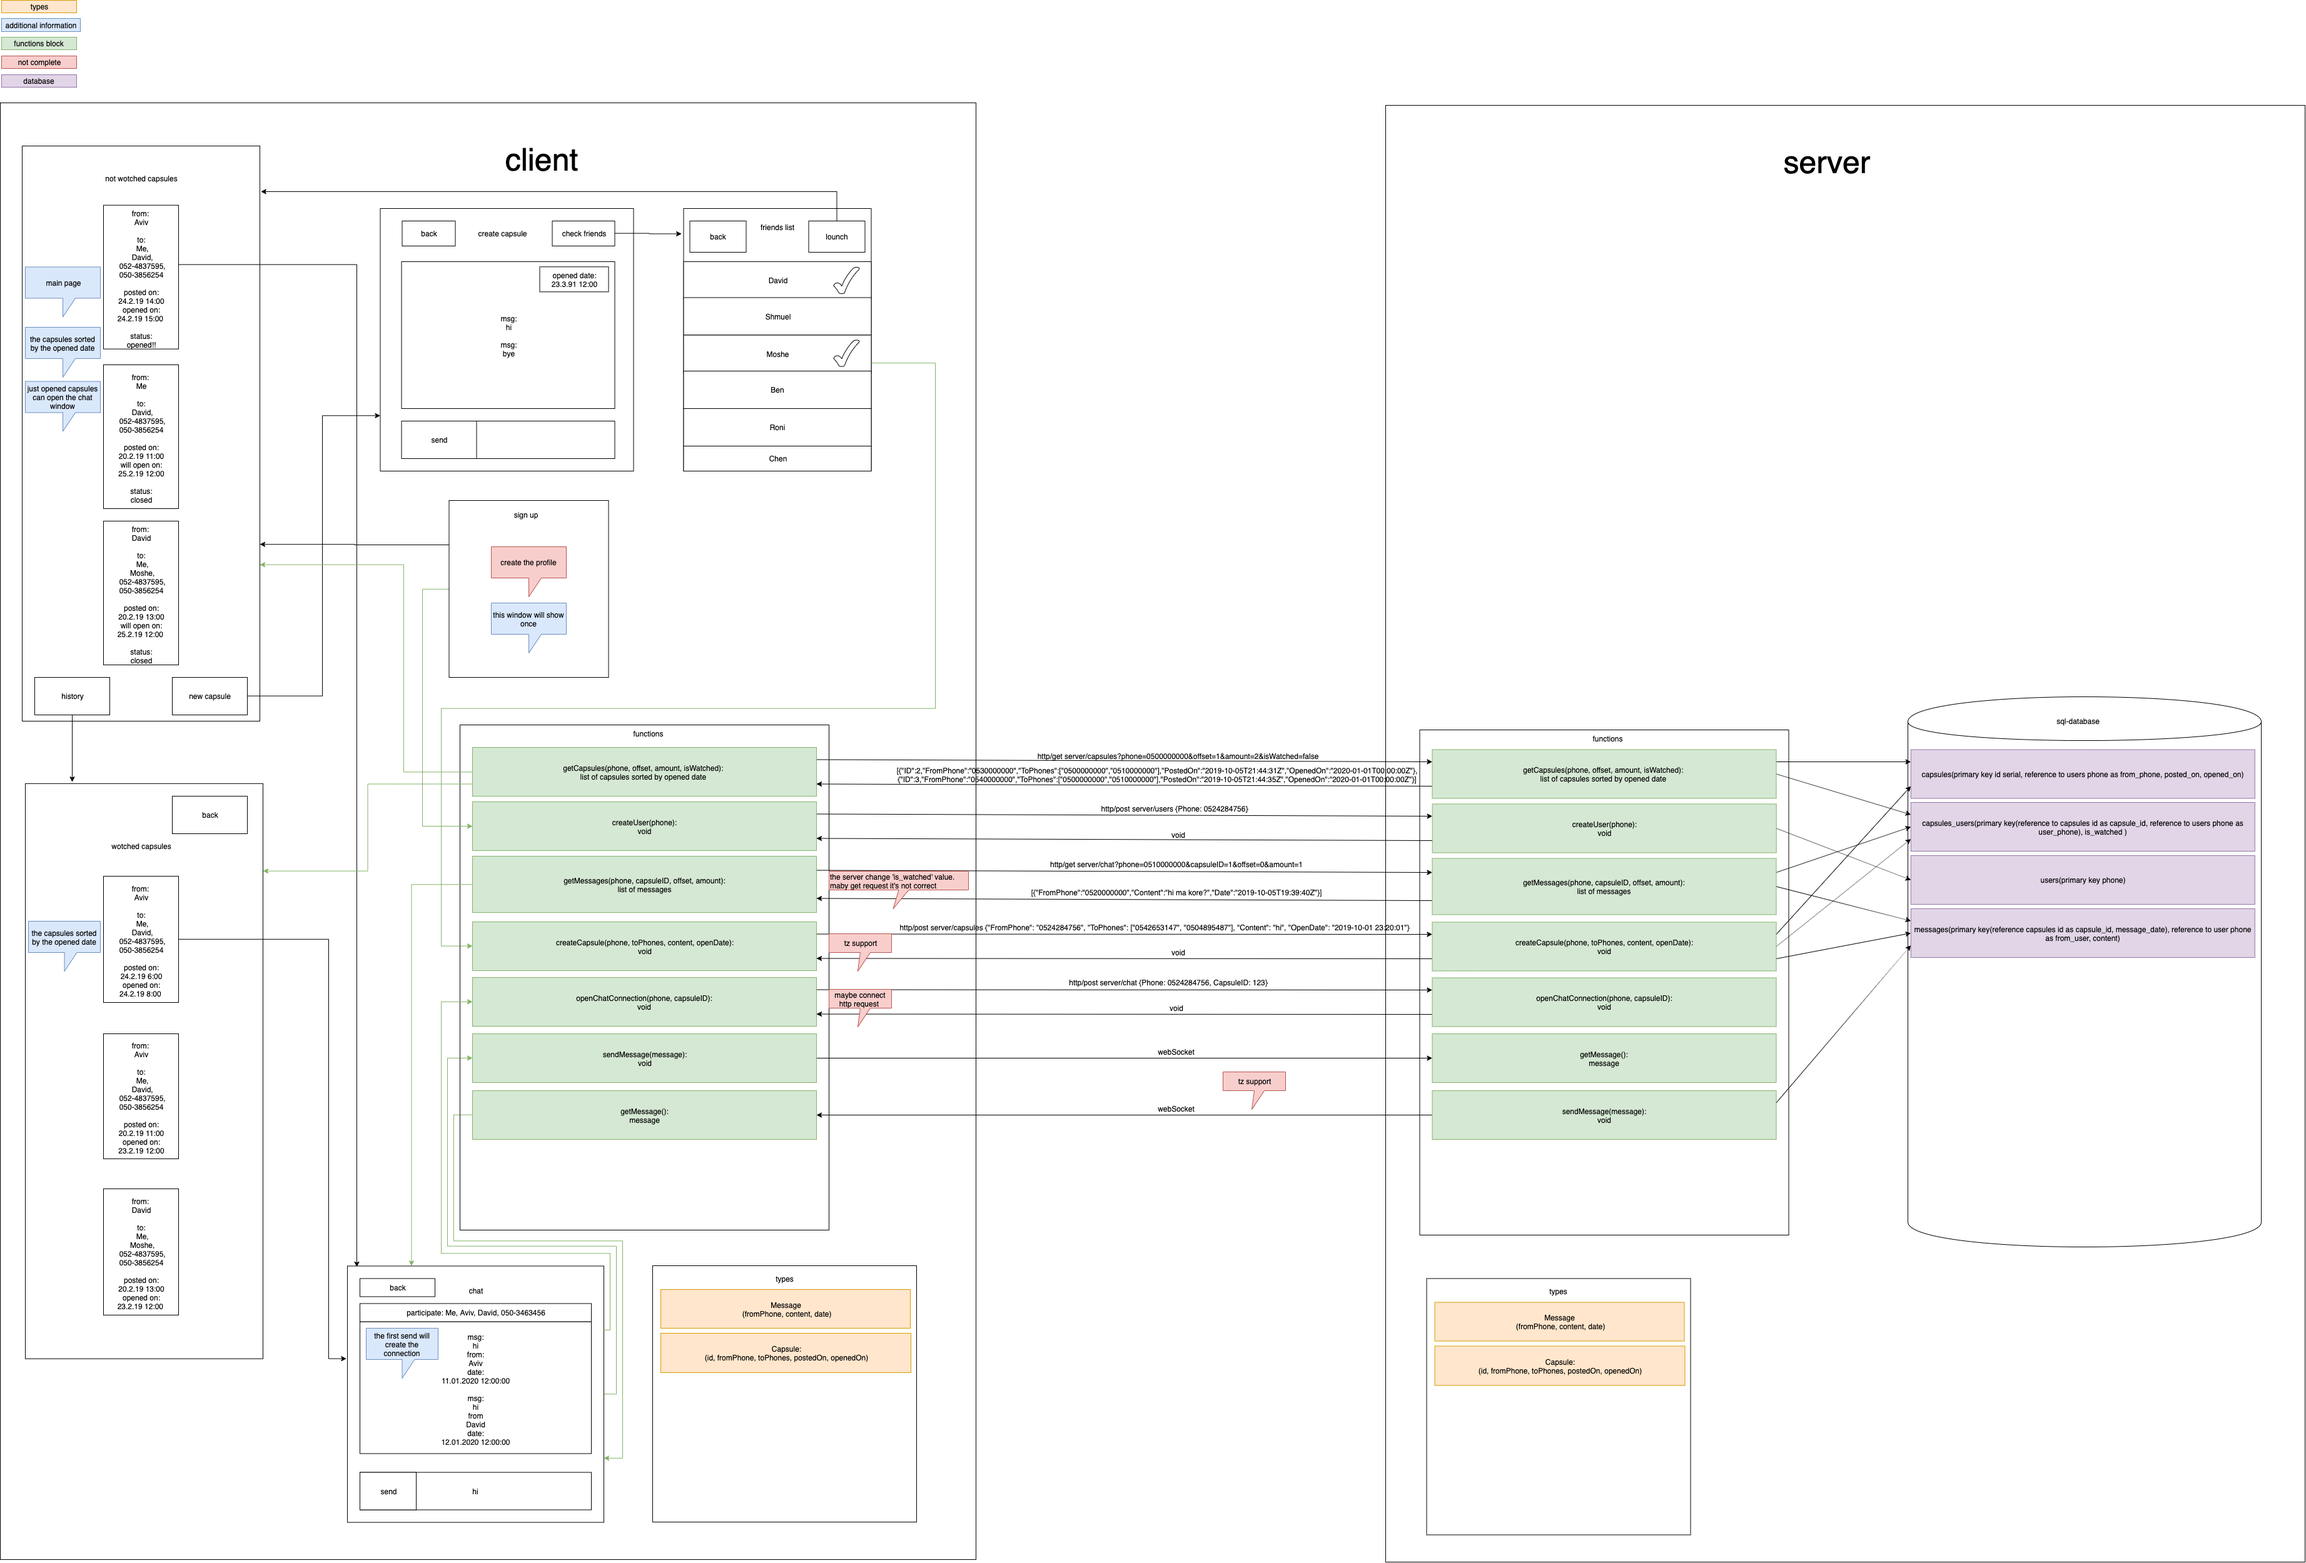
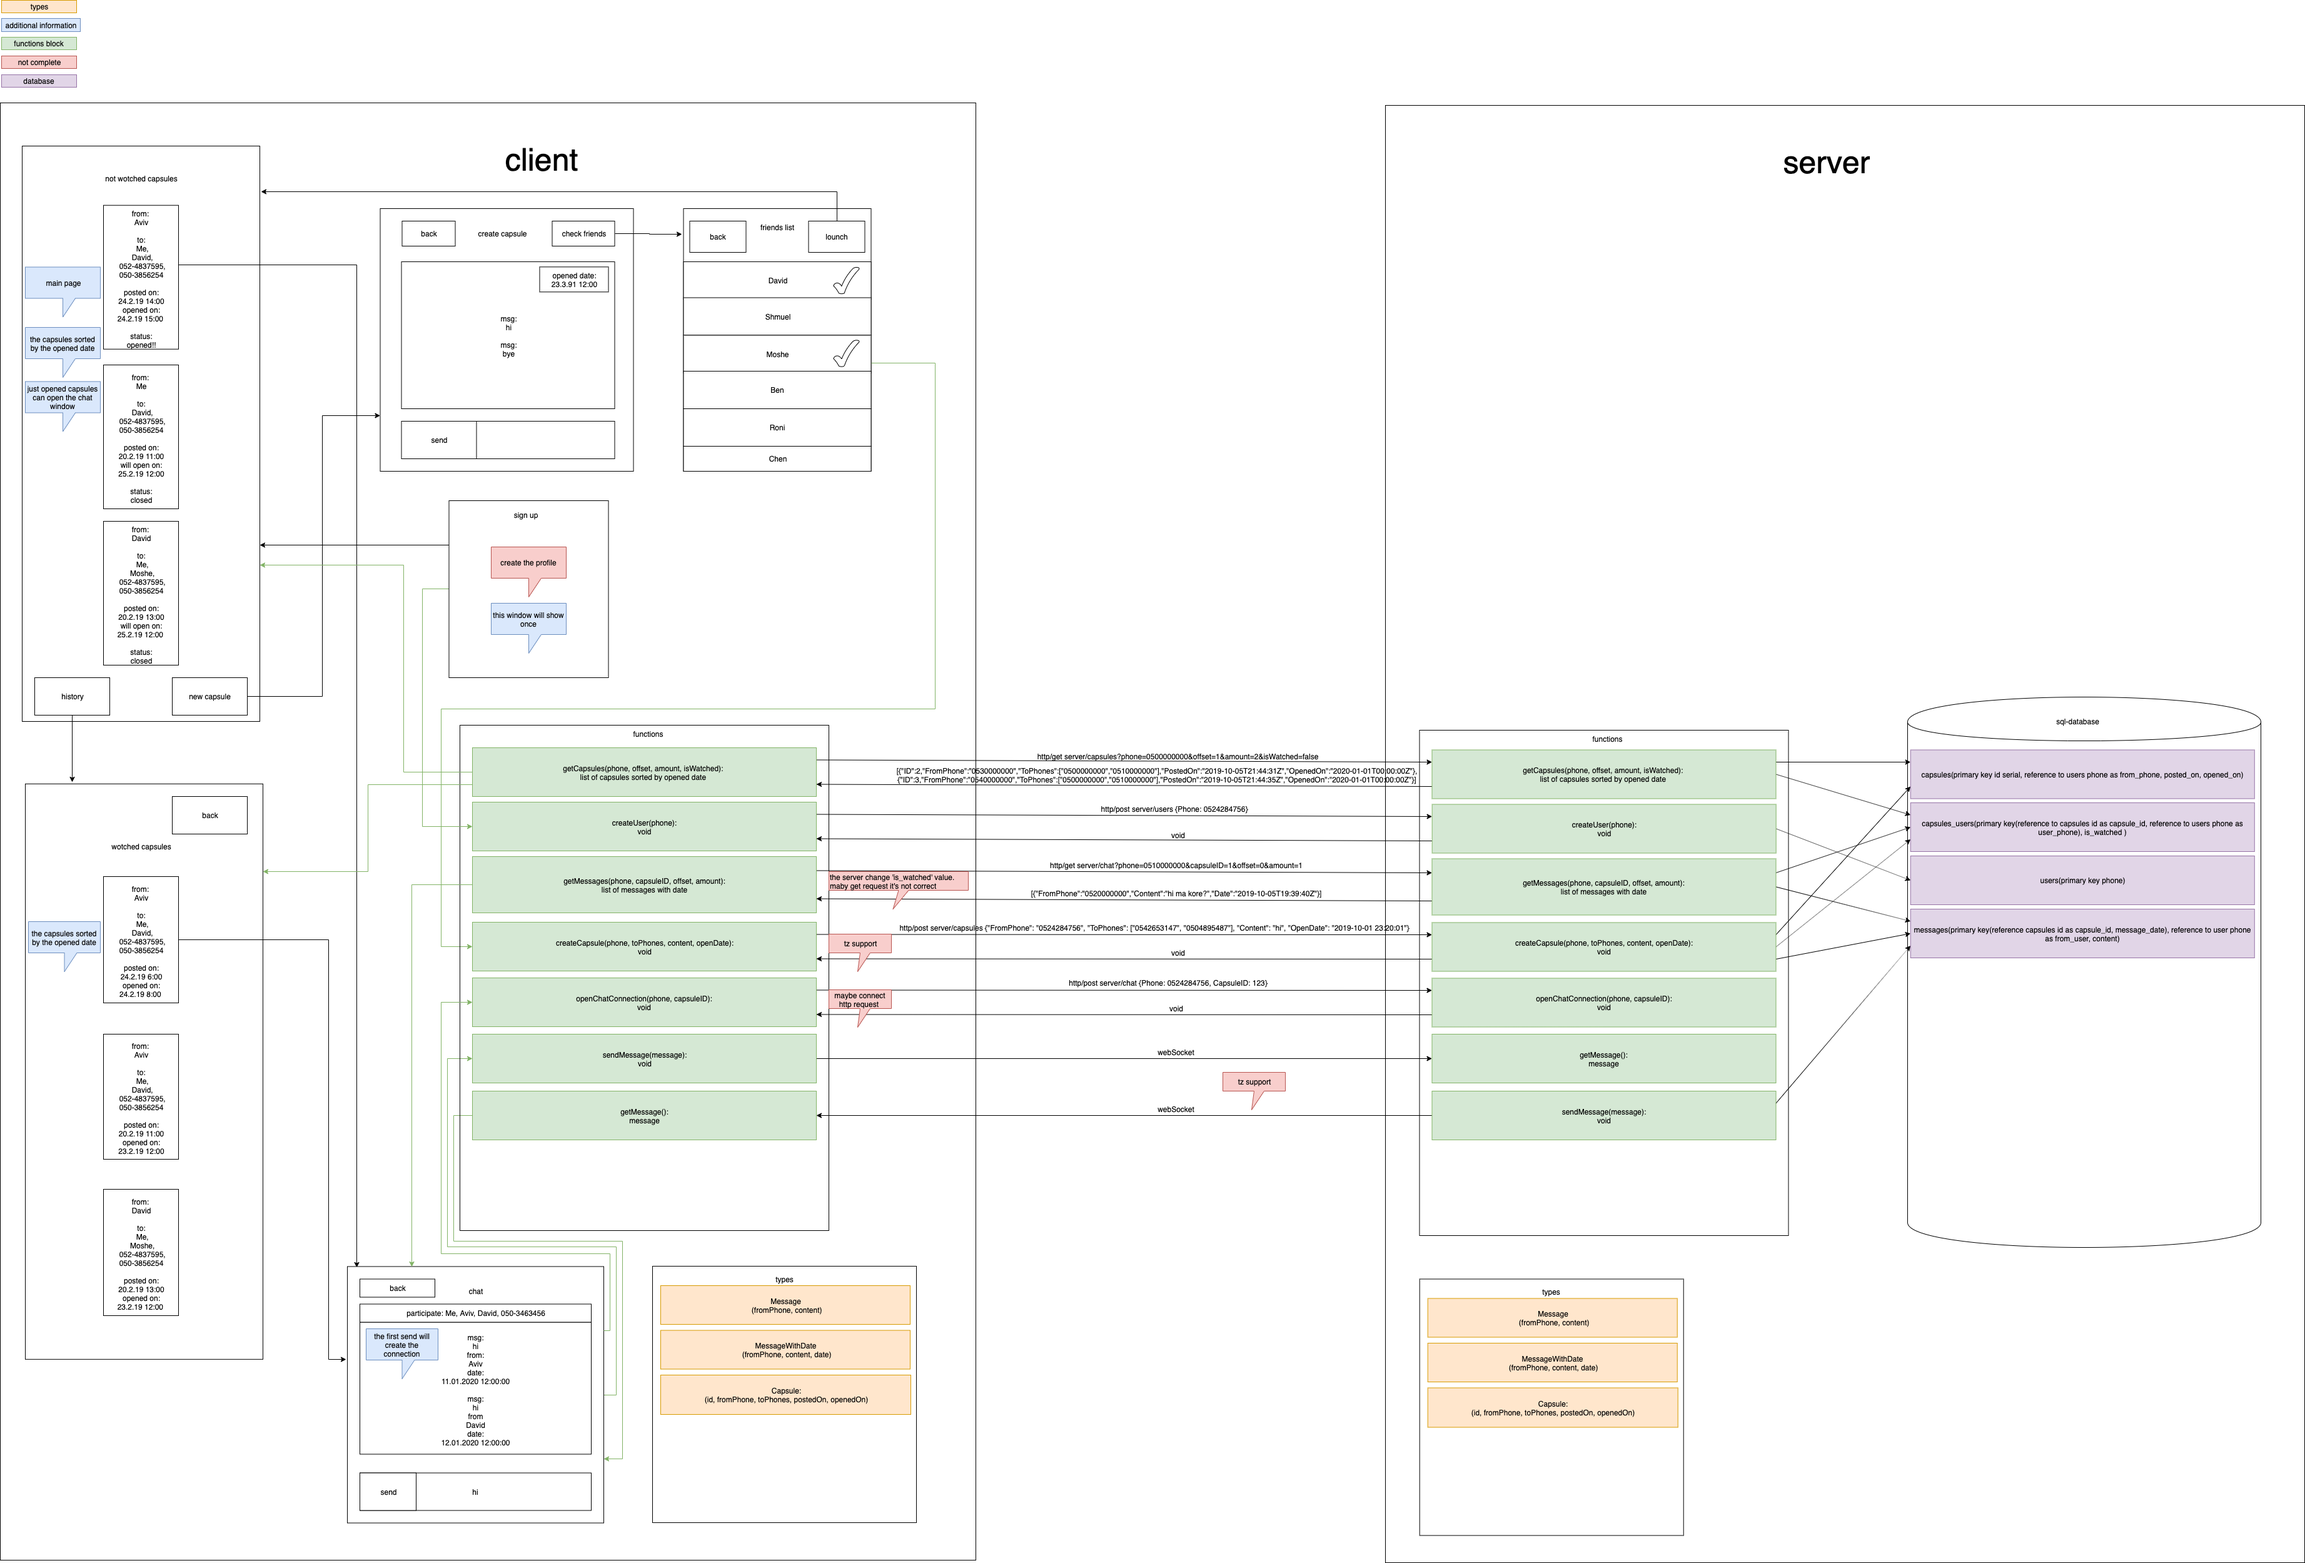
types modul added, and new message type

diff --git a/db/db.go b/db/db.go
@@ -5,24 +5,11 @@ import (
 	"fmt"
 	"github.com/capsules-web-server/config"
 	"github.com/capsules-web-server/logger"
+	"github.com/capsules-web-server/types"
 	"github.com/capsules-web-server/utils"
 	"github.com/lib/pq"
 	_ "github.com/lib/pq"
 )
-
-type Capsule struct {
-	ID 			int
-	FromPhone 	string
-	ToPhones	[]string
-	PostedOn 	string
-	OpenedOn 	string
-}
-
-type Message struct {
-	FromPhone	string
-	Content		string
-	Date		string
-}
 
 var db *sql.DB
 
@@ -72,7 +59,7 @@ func CreateCapsule(phone string, toPhones []string, content string, openDate str
 	return
 }
 
-func GetCapsules(phone string, offset int, amount int, isWatched bool) (capsules []Capsule, err error) {
+func GetCapsules(phone string, offset int, amount int, isWatched bool) (capsules []types.Capsule, err error) {
 	capsulesRows, err := db.Query(fmt.Sprintf(
 		`SELECT id,from_phone,posted_on,opened_on, array_agg(user_phone)
 				FROM
@@ -90,7 +77,7 @@ func GetCapsules(phone string, offset int, amount int, isWatched bool) (capsules
 	}
 
 	for capsulesRows.Next() {
-		var capsule Capsule
+		var capsule types.Capsule
 
 		err = capsulesRows.Scan(&capsule.ID, &capsule.FromPhone, &capsule.PostedOn, &capsule.OpenedOn, pq.Array(&capsule.ToPhones))//&capsules-web-server.ToPhones
 		if err != nil {
@@ -103,14 +90,14 @@ func GetCapsules(phone string, offset int, amount int, isWatched bool) (capsules
 	return
 }
 
-func GetMessages(phone string, capsuleID int, offset int, amount int) (messages []Message, err error) {
+func GetMessages(phone string, capsuleID int, offset int, amount int) (messages []types.MessageWithDate, err error) {
 	rows, err := db.Query(fmt.Sprintf("SELECT from_user, content, message_date FROM messages WHERE capsule_id = %d ORDER BY message_date ASC LIMIT %d OFFSET %d", capsuleID, amount, offset))
 	if err != nil {
 		logger.Error("fail to get the messages of capsules-web-server from messages table in the db:", err)
 	}
 
 	for rows.Next() {
-		var message Message
+		var message types.MessageWithDate
 
 		err = rows.Scan(&message.FromPhone, &message.Content, &message.Date)
 		if err != nil {

diff --git a/server/server.go b/server/server.go
@@ -5,17 +5,24 @@ import (
 	"github.com/capsules-web-server/config"
 	"github.com/capsules-web-server/db"
 	"github.com/capsules-web-server/logger"
+	"github.com/capsules-web-server/types"
+	"github.com/gorilla/websocket"
 	"log"
 	"net/http"
 	"strconv"
 )
 
-//
-//type ChatSocket struct {
-//	CapsuleID   int
-//	Phone		string
-//}
+type userSocket struct {
+	Phone   	string
+	Socket 		*websocket.Conn
+}
 
+type capsuleChat struct {
+	CapsuleChan		chan types.MessageWithDate
+	UsersSockets	[]userSocket
+}
+
+//var capsulesChat = make(map[int]capsuleChat)
 
 func usersHandler(_ http.ResponseWriter, request *http.Request) {
 	switch request.Method {

diff --git a/types/types.go b/types/types.go
@@ -1,0 +1,15 @@
+package types
+
+type Capsule struct {
+	ID 			int
+	FromPhone 	string
+	ToPhones	[]string
+	PostedOn 	string
+	OpenedOn 	string
+}
+
+type MessageWithDate struct {
+	FromPhone	string
+	Content		string
+	Date		string
+}
